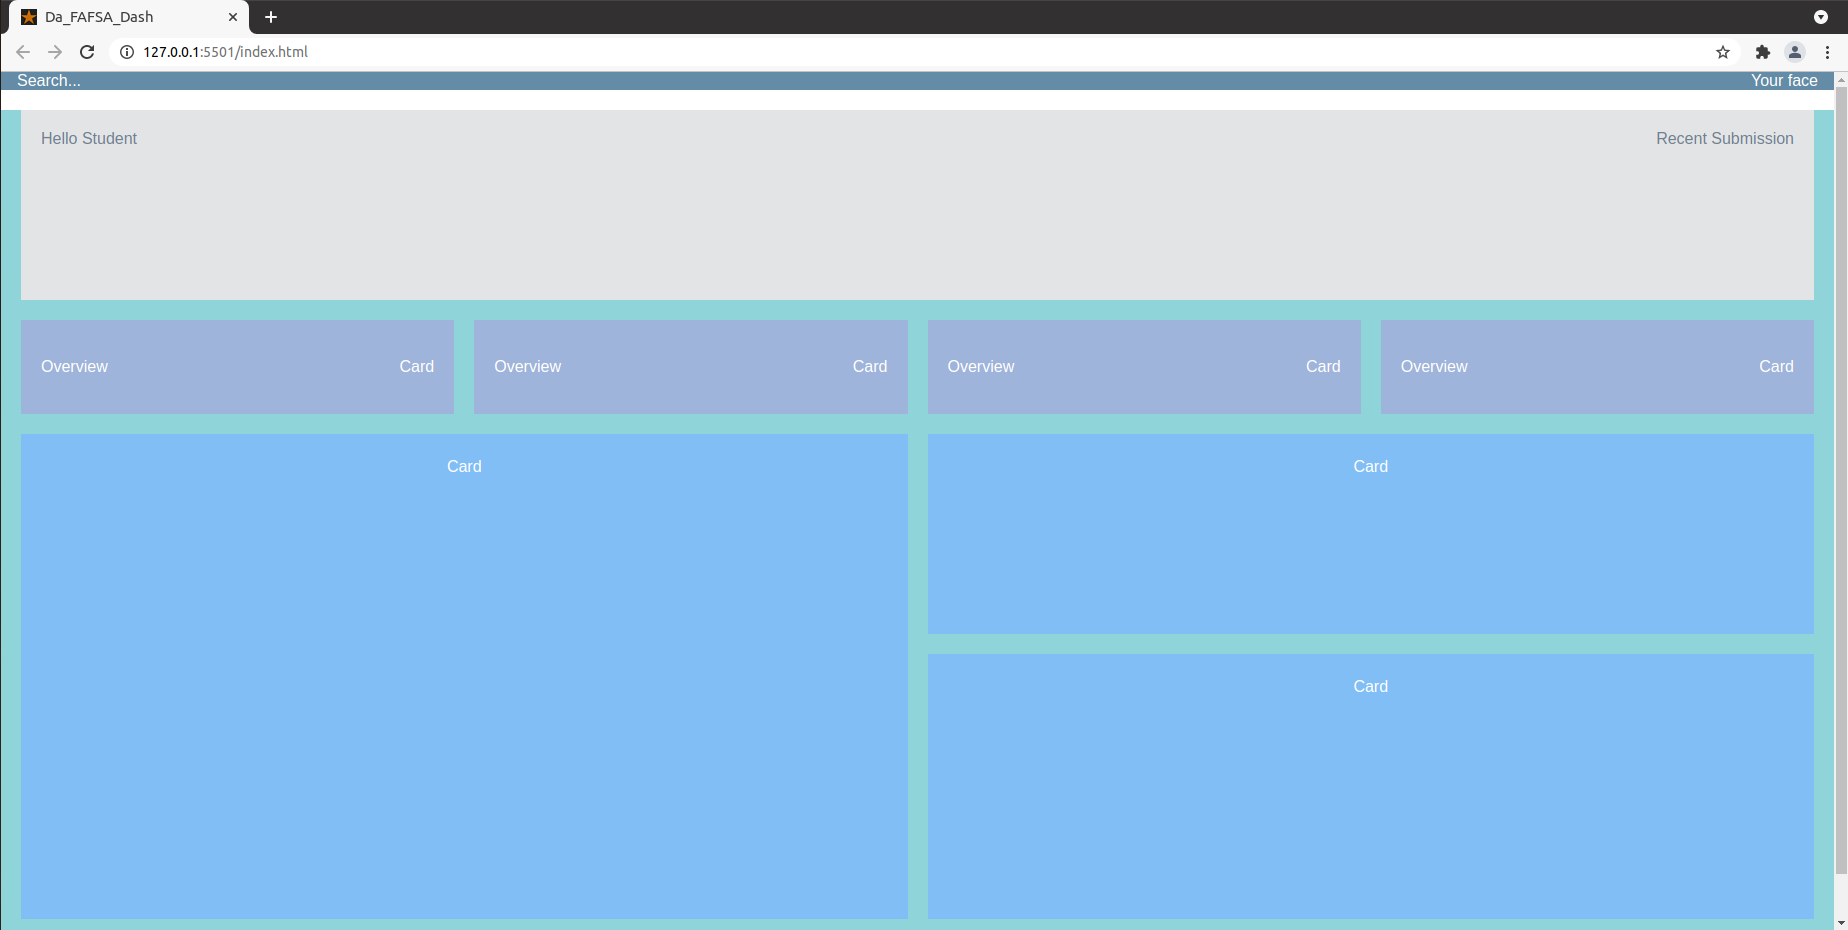
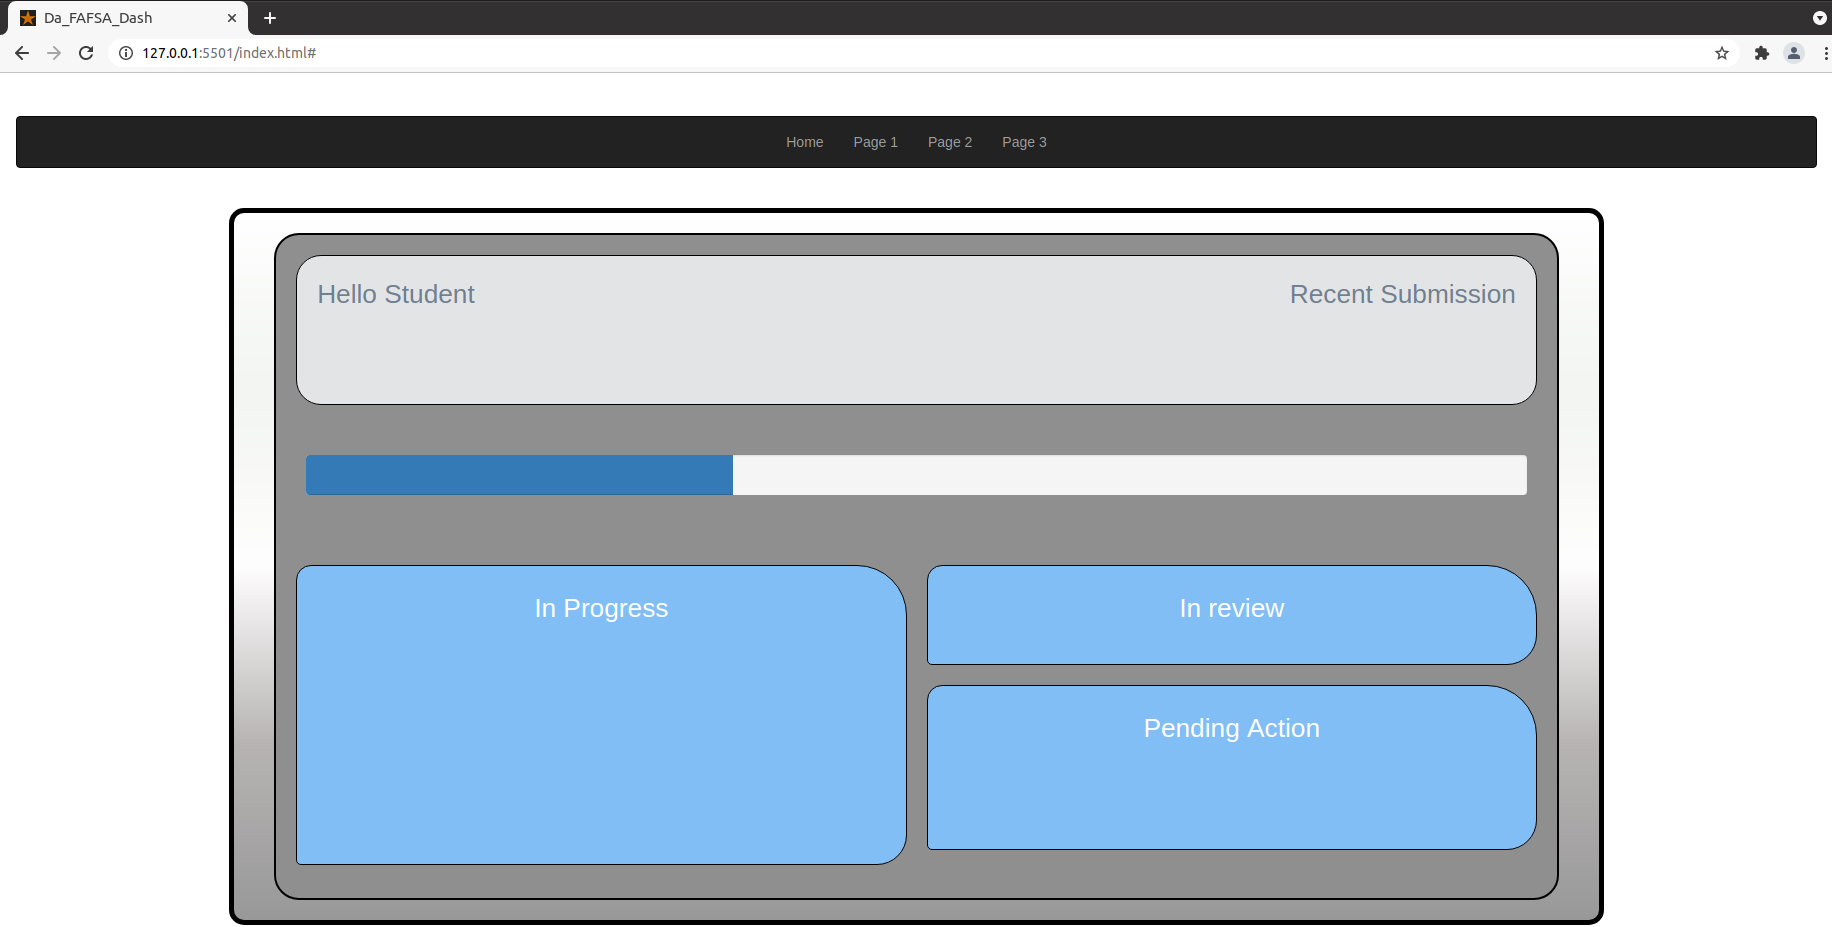
styling edits

diff --git a/README.md b/README.md
@@ -11,7 +11,7 @@
 * Being creative and with no specific requirements for features to address this problem space.  
 * Demonstrating what has been learned up to this point. We are also free to incorporate other technologies and platforms that we have not yet uncovered....
 
-## First Screen Shots  
+## Screen Shots  
   
 <img src= "./FAFSA_dash.png" width=400>
  
